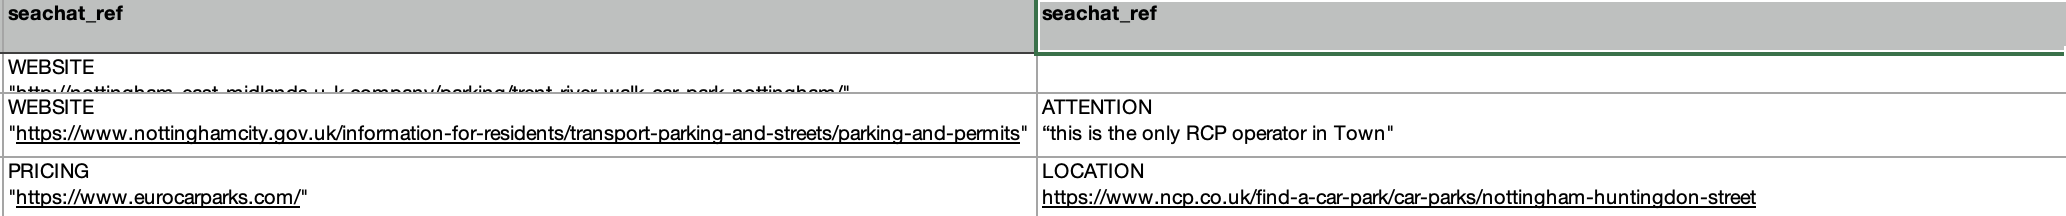
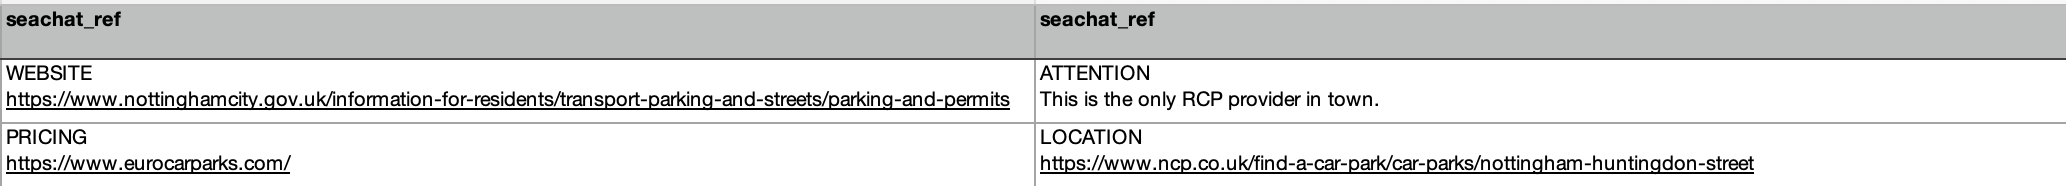
fix/ pr request

Changed region(s): [[0.0, 0.2151, 1.0, 0.9677], [0.0, 0.0, 1.0, 0.1613]]

diff --git a/content/en/seachat/seachat-manual/03-add-knowledge/09-add-webpage-link-in-answers.md b/content/en/seachat/seachat-manual/03-add-knowledge/09-add-webpage-link-in-answers.md
@@ -96,23 +96,7 @@ Once there is information in the knowledge base, the agent will start using this
 
 You can also add URL buttons to your agent's responses using a spreadsheet. When you are adding knowledge using a spreadsheet to upload a large amount of information, it can be difficult to add reference buttons to each knowledge manually. Don't worry. SeaChat has a solution for you. 
 
-By adding a column called **seachat_ref** in your spreadsheet, your agent will automatically extract information to add URL buttons to the agent's responses. You can put as many column as you want to add multiple URL buttons to the answer.
-
-| seachat_ref      ||
-|------------------|-|
-| button text |
-|button value |
-
-Since the agent will look into this particular column, we need to make sure that we use the correct variables to help the agent understand the information.
-
-**Please make sure to follow the format below to ensure the agent can extract the information correctly:**
-
-In each row of the **seachat_ref** column, your AI agent will look for two pieces of information: <code>button text</code> (line1) and <code>button value</code> (line2). The following is what your seachat_ref column should look like:
-
-```
-"User Manual Wiki" --- line 1
-"https://user-manual-wiki.com" --- line 2
-```
+By adding columns called **seachat_ref** in your spreadsheet, your agent will automatically extract information to add URL buttons to the agent's responses. You can put as many column as you want to add multiple URL buttons to the answer.
 
 <div id="additional-setting-ui" style="display: flex; flex-direction: column; align-items: center;">
 <div style="width: 100%; text-align: center; display: flex; flex-direction: column; align-items: center; justify-item: center">
@@ -122,6 +106,18 @@ In each row of the **seachat_ref** column, your AI agent will look for two piece
 </div>
     <p style="margin-top: 20px; font-size: 15px">Spreadsheet Example</p>
 </div>
+
+Since the agent will look into this particular column, we need to make sure that we use the correct variables to help the agent understand the information.
+
+**Please make sure to follow the format below to ensure the agent can extract the information correctly:**
+
+In each row of the **seachat_ref** column, your AI agent will look for two pieces of information: <code>button text</code> (line 1) and <code>button value</code> (line 2). The following is what your seachat_ref column should look like:
+
+```
+"User Manual Wiki" --- line 1
+"https://user-manual-wiki.com" --- line 2
+```
+
 
 > 🚨Attention🚨
 > 

diff --git a/content/zh/seachat/seachat-manual/03-add-knowledge/09-add-webpage-link-in-answers.md b/content/zh/seachat/seachat-manual/03-add-knowledge/09-add-webpage-link-in-answers.md
@@ -90,11 +90,16 @@ SeaChat 提供了不同的方法來向助理的回應中添加額外信息。選
 
 通過在試算表中添加名為 **seachat_ref** 的額外欄位，您的AI助理將自動提取資訊，將 URL 按鈕新增到助理的回應中。
 
-| seachat_ref ||
-|-------------|-|
-| 按鈕標題        |
-| 按鈕值         |
-|             |
+<br/>
+
+<div id="additional-setting-ui" style="display: flex; flex-direction: column; align-items: center;">
+<div style="width: 100%; text-align: center; display: flex; flex-direction: column; align-items: center; justify-item: center">
+    <a href="/images/seachat/zh/knowledge-advanced-features/url-button/spreadsheet-example.png" target="_blank">
+    <img width="100%" style="border-radius: 0.4rem; cursor: zoom-in;" src="/images/seachat/zh/knowledge-advanced-features/url-button/spreadsheet-example.png" alt="image showcasing how to write an agent description">
+    </a>
+</div>
+    <p style="margin-top: 20px; font-size: 15px">試算表範例</p>
+</div>
 
 由於助理將檢查此特定欄位，我們需要確保使用正確的變數來幫助助理理解資訊。
 
@@ -112,18 +117,6 @@ SeaChat 提供了不同的方法來向助理的回應中添加額外信息。選
 > 🚨注意🚨
 >
 > 如果按鈕值不是 URL，例如某些文本、2段落或3行中的3個 URL，按鈕將在點擊時顯示按鈕值的全部內容。
-
-
-<br/>
-
-<div id="additional-setting-ui" style="display: flex; flex-direction: column; align-items: center;">
-<div style="width: 100%; text-align: center; display: flex; flex-direction: column; align-items: center; justify-item: center">
-    <a href="/images/seachat/zh/knowledge-advanced-features/url-button/spreadsheet-example.png" target="_blank">
-    <img width="100%" style="border-radius: 0.4rem; cursor: zoom-in;" src="/images/seachat/zh/knowledge-advanced-features/url-button/spreadsheet-example.png" alt="image showcasing how to write an agent description">
-    </a>
-</div>
-    <p style="margin-top: 20px; font-size: 15px">試算表範例</p>
-</div>
 
 
 您放入 `seachat_ref` 的所有信息都會被提取為按鈕。如果按鈕值的內容是 URL，則點擊按鈕時會將用戶重定向到該 URL。如果按鈕值不是 URL，則按鈕會在回應中顯示按鈕值。
